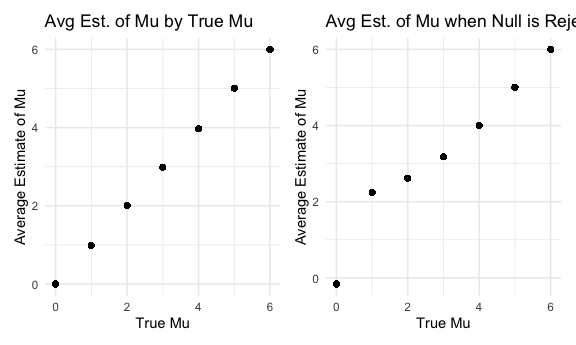
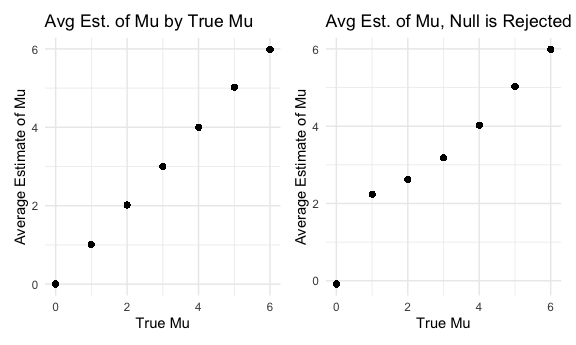
Problem 3 - plot edits

diff --git a/p8105_hw5_als2377.md b/p8105_hw5_als2377.md
@@ -496,7 +496,7 @@ plot_2 =
   mutate(
     mean_estimate = mean(estimate)) %>% 
   ggplot(aes(x = mu, y = mean_estimate)) + geom_point() + labs(
-    title = "Avg Est. of Mu when Null is Rejected", 
+    title = "Avg Est. of Mu, Null is Rejected", 
     x = "True Mu",
     y = "Average Estimate of Mu"
   )
@@ -506,5 +506,7 @@ plot_1 + plot_2
 
 <img src="p8105_hw5_als2377_files/figure-gfm/unnamed-chunk-14-1.png" width="90%" />
 
-The sample average of mu across the tests for which the null i rejected
-is approximately equal to the true value of mu.
+The sample average of mu across the tests for which the null is rejected
+is approximately equal to the true value of mu. There is a large enough
+sample size for the hypothesis tests to detect an effect, even though
+the effect is small.
